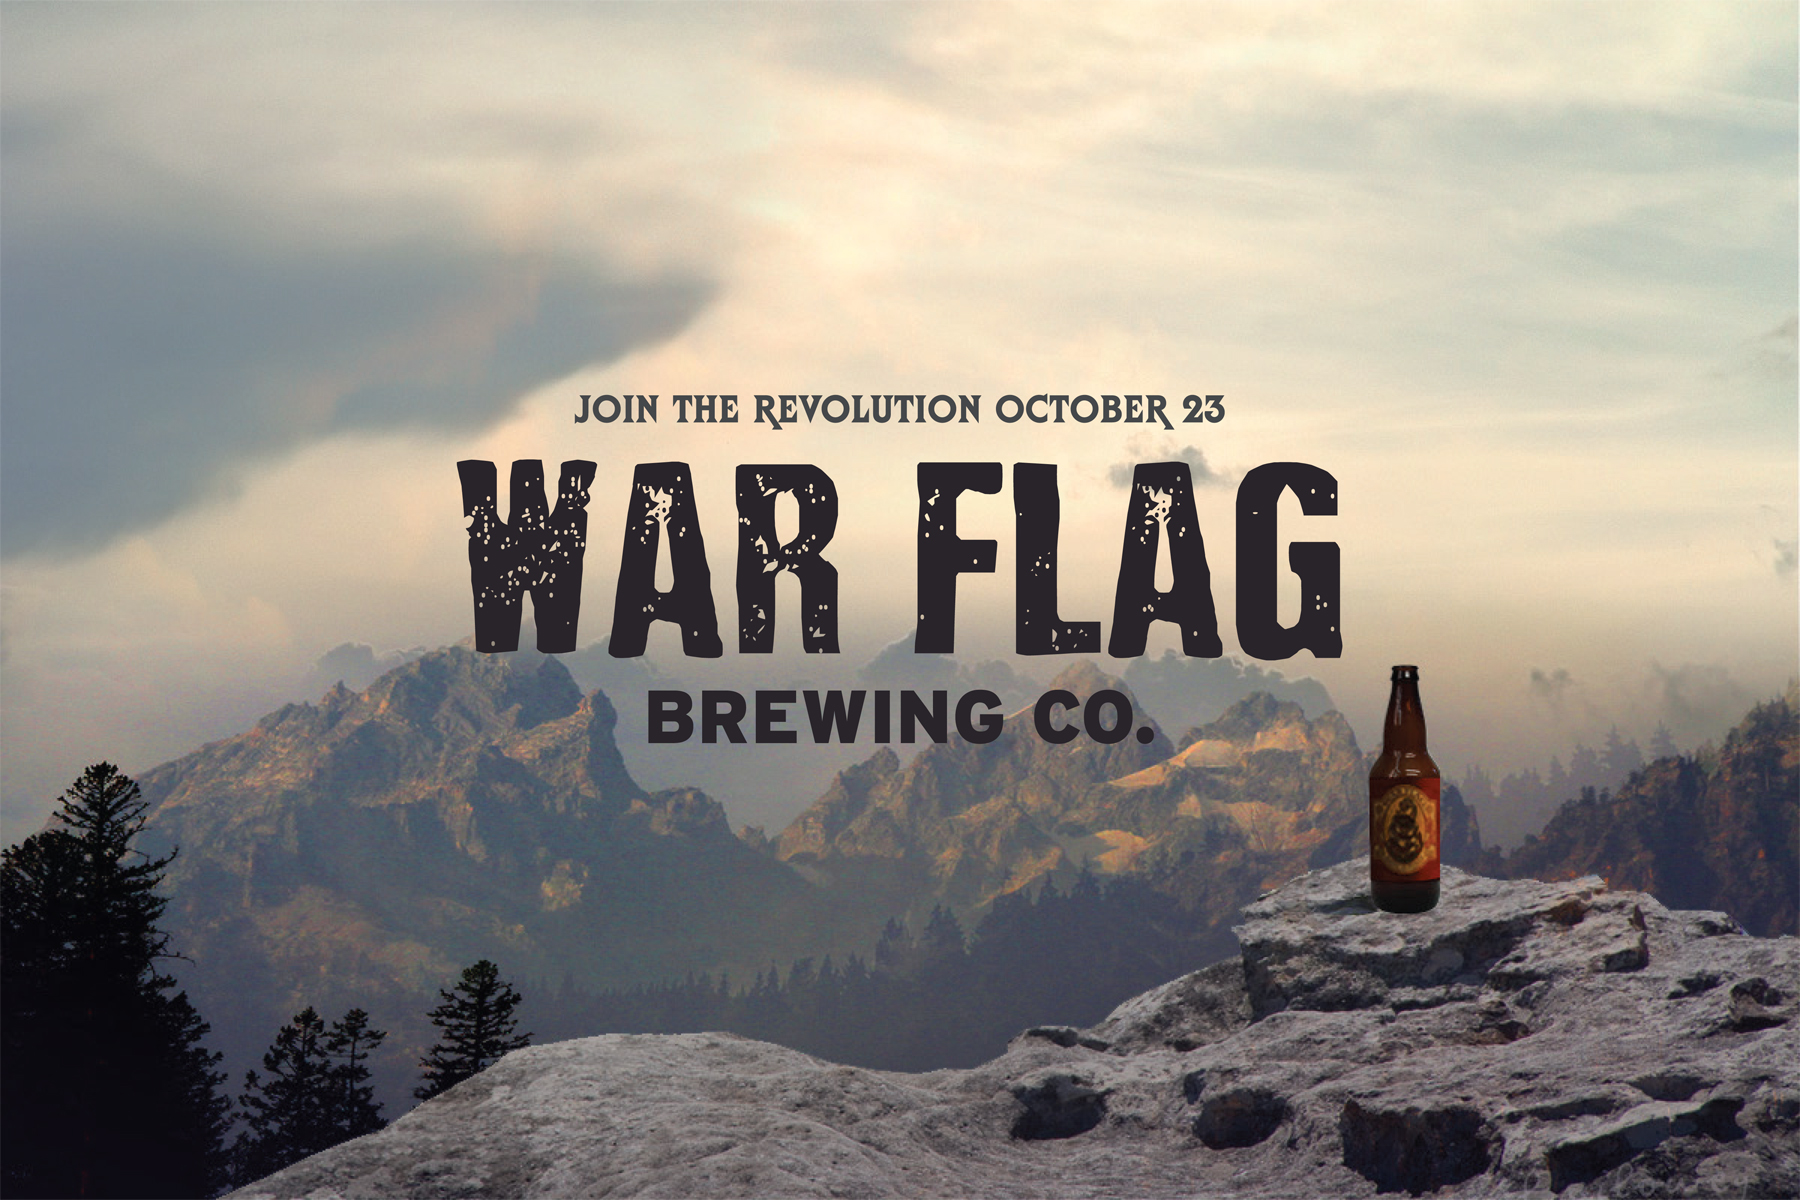
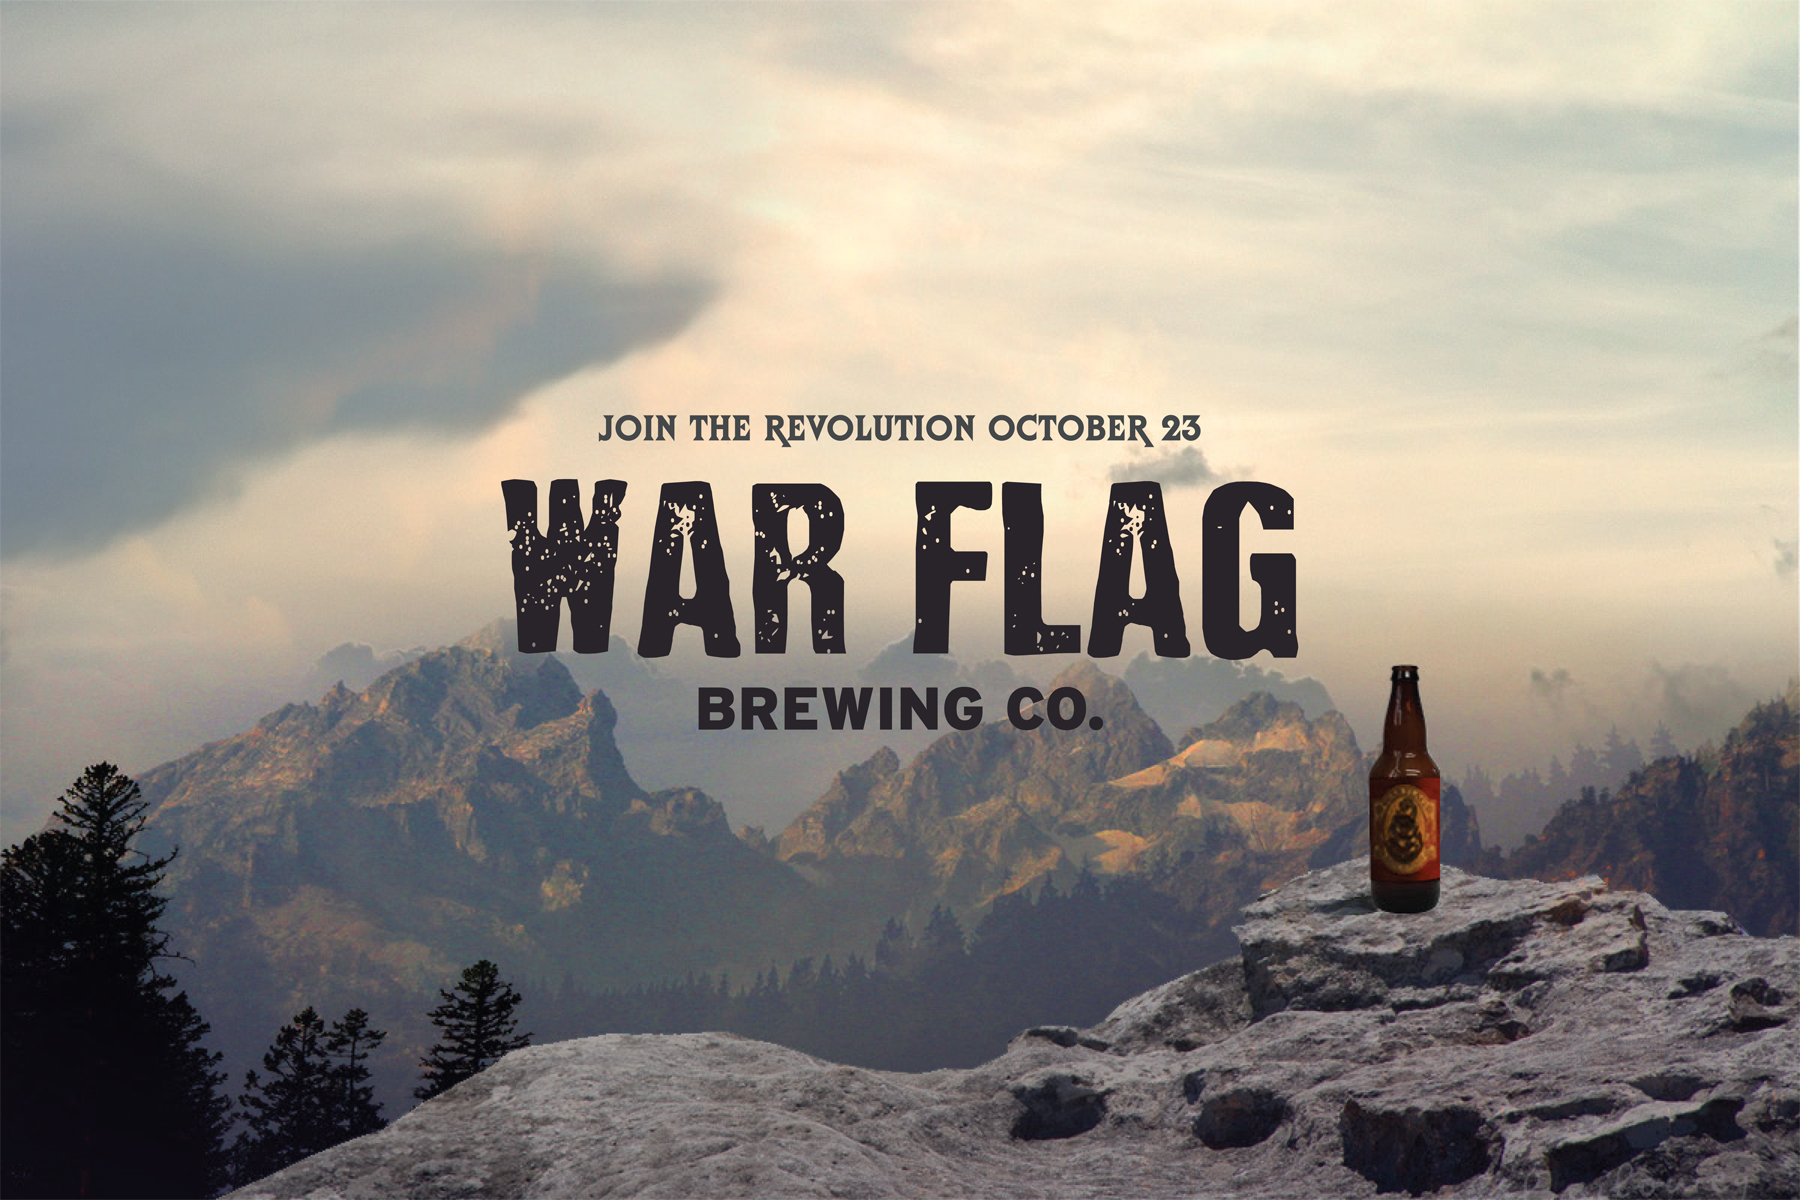
resize background

Changed region(s): [[0.2489, 0.3083, 0.7467, 0.6167]]

diff --git a/css/app.css b/css/app.css
@@ -4,27 +4,17 @@
  * For details, see http://www.apache.org/licenses/LICENSE-2.0.
  */
 
-body {
-	margin-top: 50px;
-	margin-bottom: 50px;
-	background: none;
-}
 
 .full {
-  background: url("canyonblack.jpg") no-repeat center center fixed; 
+  background: url("canyonblack.jpg") no-repeat center center fixed;
   -webkit-background-size: cover;
   -moz-background-size: cover;
   -o-background-size: cover;
   background-size: cover;
+
 }
-.container-fluid {
-	text-align: center;
-	vertical-align: middle;
-}
-.intro {
-	padding-top: 10px;
-	padding-bottom: 200px
-}
+
+
 .icon {
 	
 	position: absolute;
